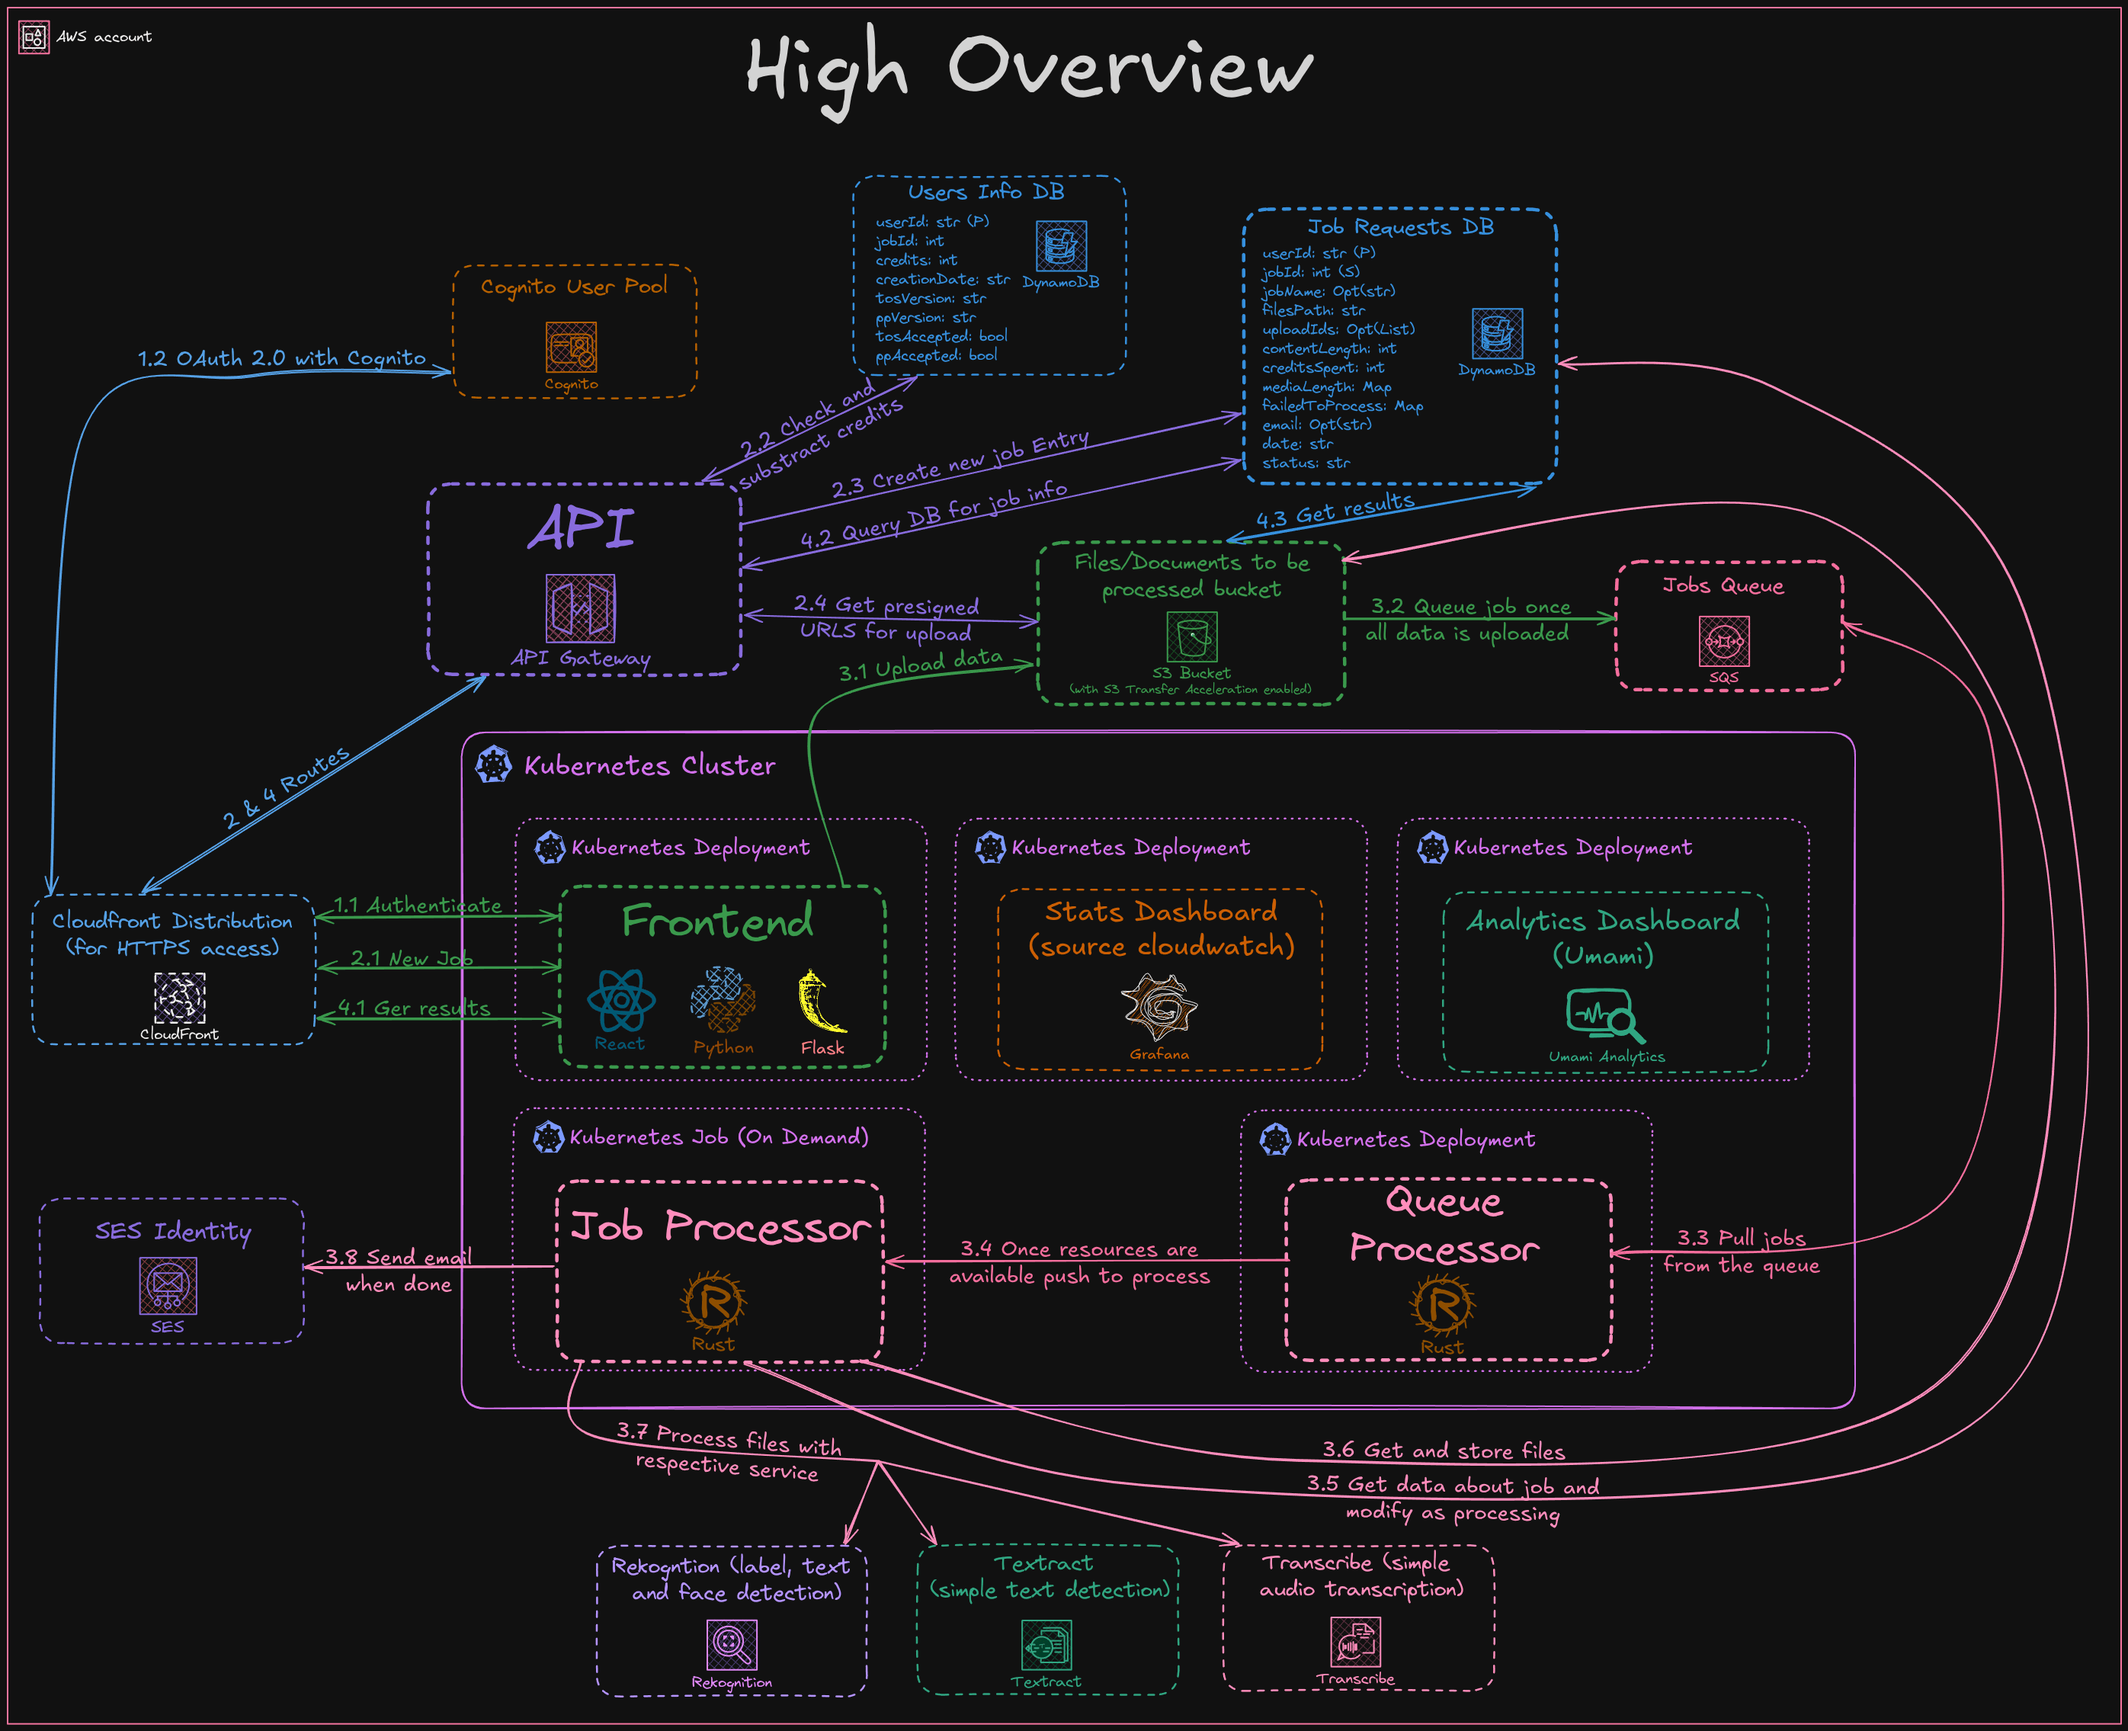
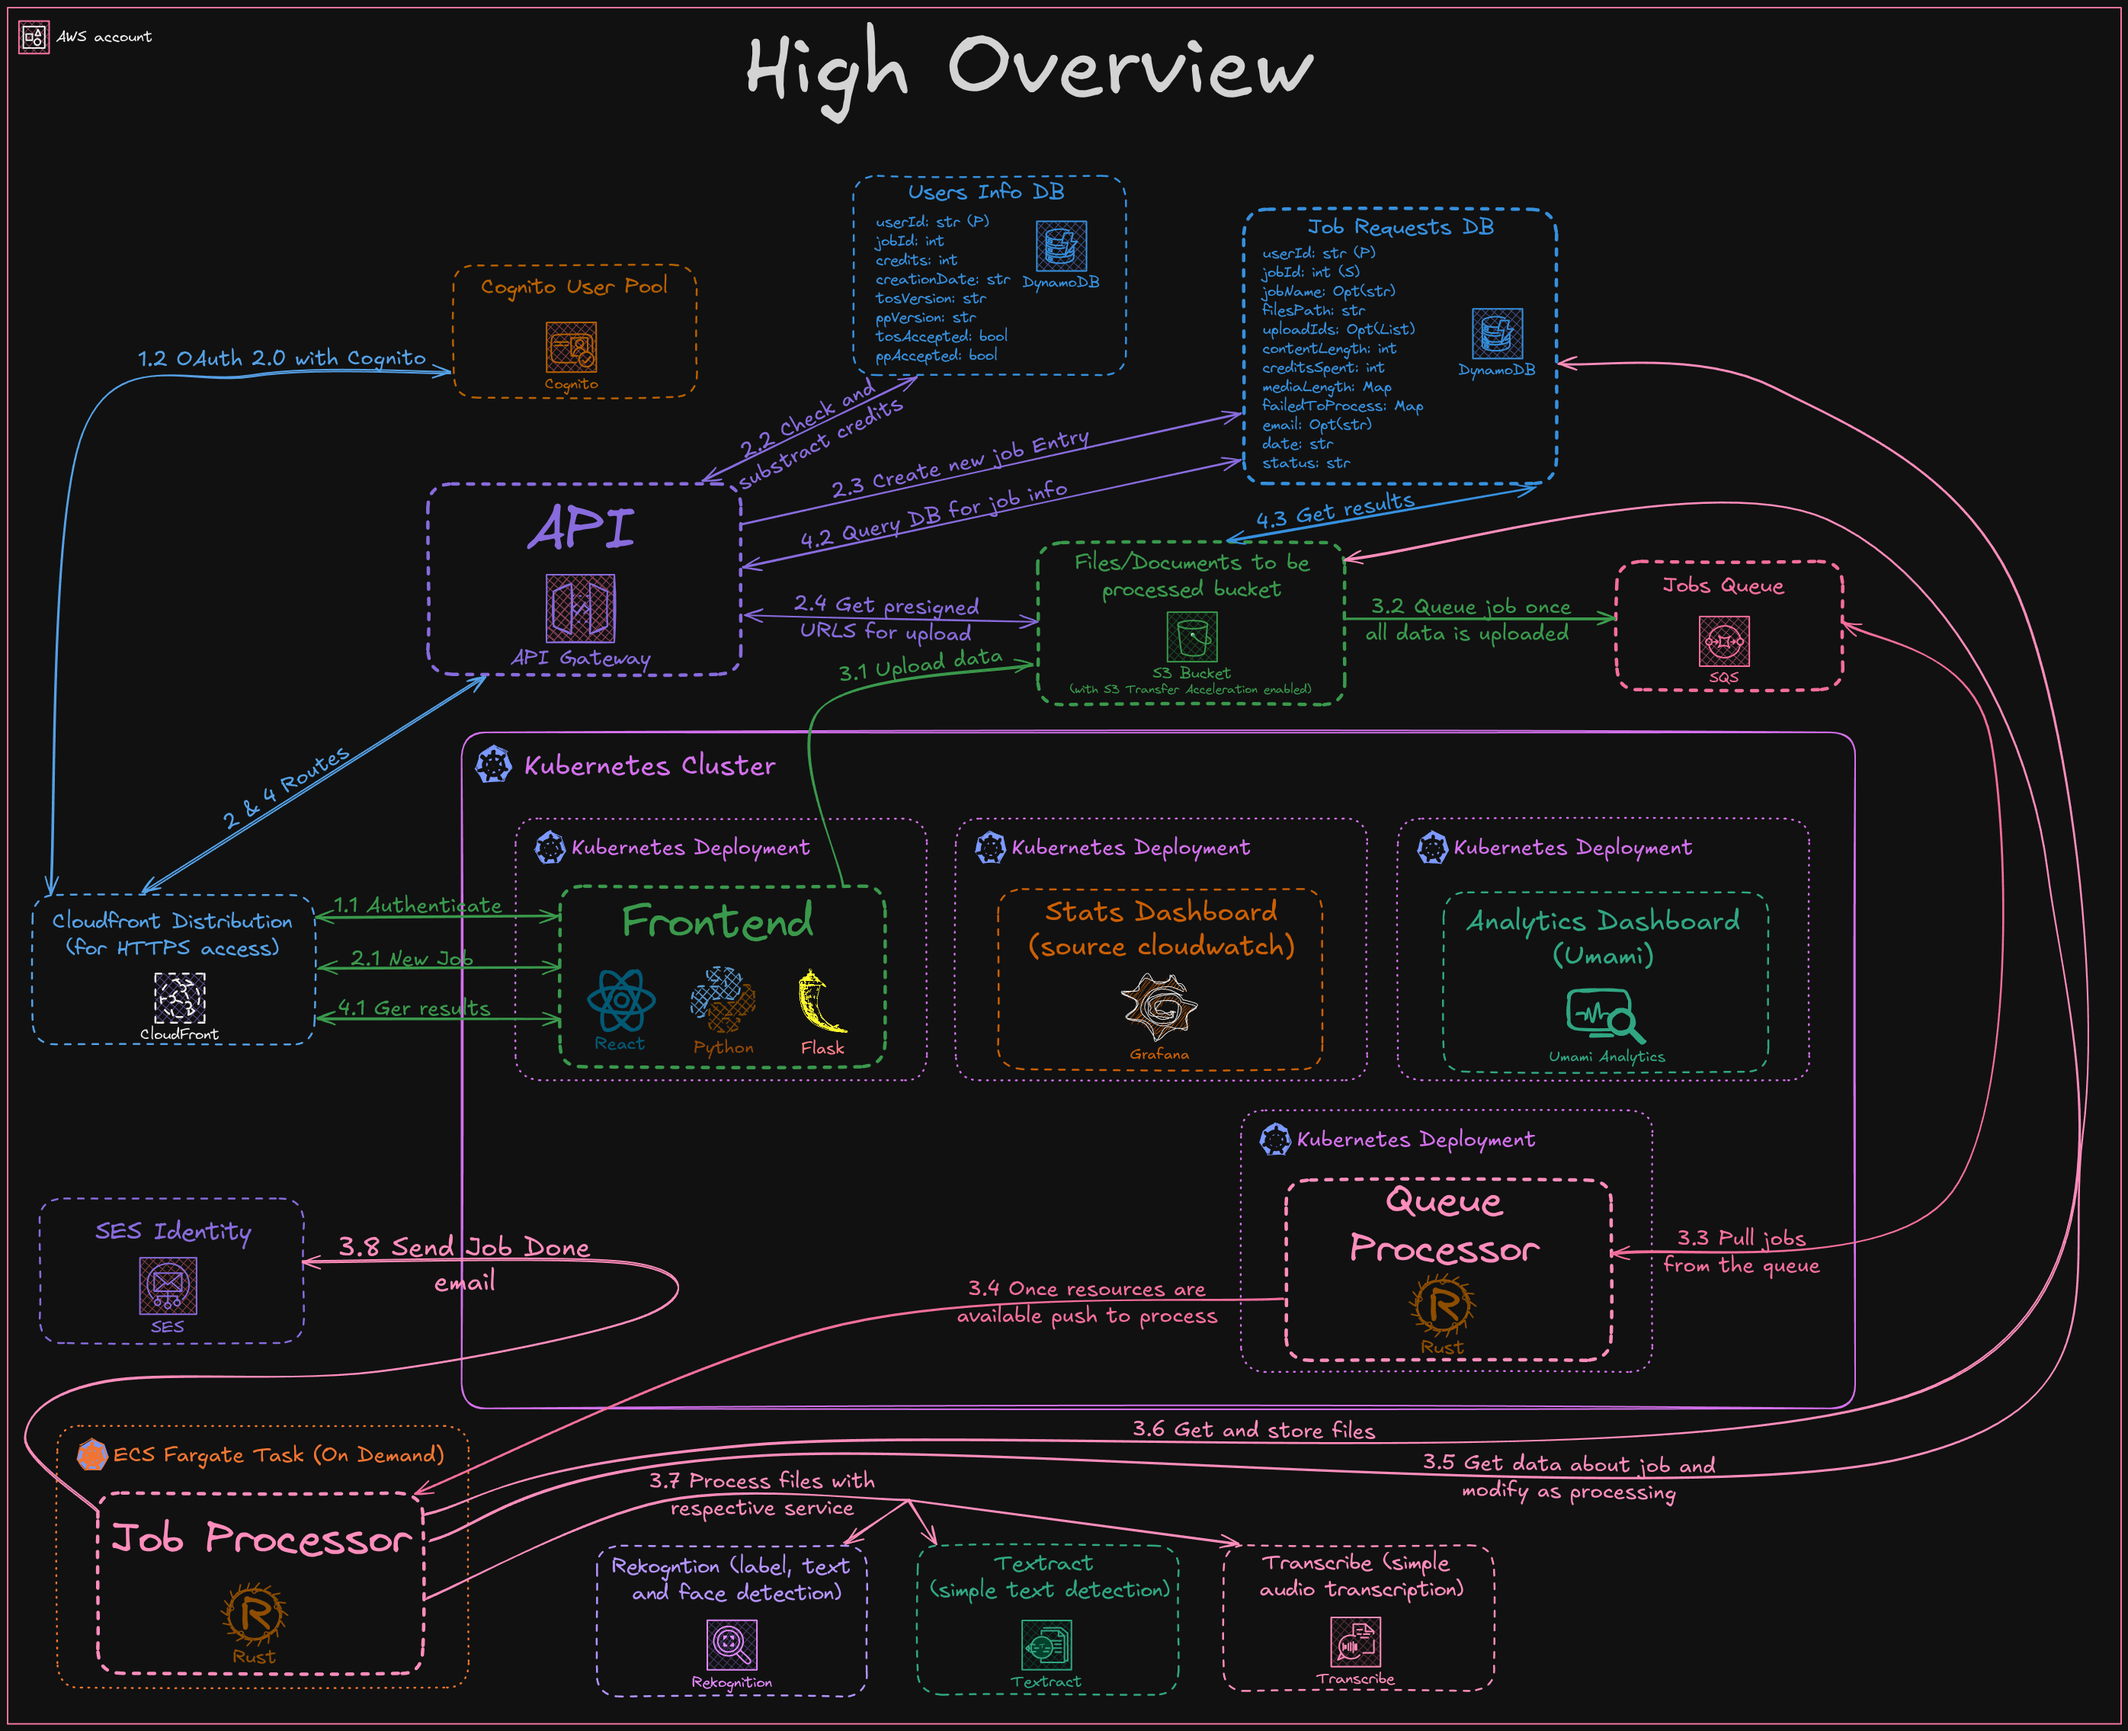
update how the jobs are processed

diff --git a/docs/Infrastructure/README.md b/docs/Infrastructure/README.md
@@ -43,6 +43,10 @@ The reasons for not using a REST API are cost-related, as running the bare bones
 
 All of the API Routes resolve to AWS Lambda or ARM, as it is incredibly cheap to run and is more than enough for any of the APIs.
 
+#### Job Processor
+
+The Job Processor is a Rust application that is ran on ECS Fargate as a task whenever a new job is added to the queue. This allows for infinite scalability, as it can run as many tasks as needed to process the jobs in parallel.
+
 #### Other
 
 - S3 for storing files and accessing them fast.
@@ -57,6 +61,6 @@ All of the API Routes resolve to AWS Lambda or ARM, as it is incredibly cheap to
 
 ## Kubernetes
 
-For hosting the Frontend, Job Processor, Queue Processor, Stats Dashboard, and Analytics Dashboard, I have decided to go with a Kubernetes cluster because I am very comfortable with Kubernetes (I even have the CKAD), it's cloud agnostic if I ever decide to switch things. It allows me to manage them better.
+For hosting the Frontend, Queue Processor, Stats Dashboard, and Analytics Dashboard, I have decided to go with a Kubernetes cluster because I am very comfortable with Kubernetes (I even have the CKAD), it's cloud agnostic if I ever decide to switch things. It allows me to manage them better.
 
 See [K3S.md](./K3S.md) for more information about the K3S cluster.

diff --git a/docs/OVERVIEW.md b/docs/OVERVIEW.md
@@ -55,7 +55,8 @@ is as follows:
 ## Infrastructure
 
 - The API, CDN, DNS Router, and other components that software interacts with are from AWS (Amazon Web Services). It includes AWS Lambda functions called by the API, too. A non-exhaustive list of the most used services consists of the following: Route53, CloudFront, API Gateway, AWS Lambda, S3, SQS, AWS Cognito, DynamoDB, SES, Event Bridge, CloudWatch, AWS Rekognition, AWS Textract, AWS Transcribe, IAM and ACM.
-- The actual applications (Frontend (made of React, Python, and Flask), Job Processor (Rust), Queue Processor (Rust), Stats Dashboard (Grafana), and Analytics Dashboard (Umami)) are deployed in a Kubernetes cluster behind an NGINX reverse proxy as deployments and jobs.
+- The actual applications (Frontend (made of React, Python, and Flask), Queue Processor (Rust), Stats Dashboard (Grafana), and Analytics Dashboard (Umami)) are deployed in a Kubernetes cluster behind an NGINX reverse proxy as deployments and jobs.
+- The Job Processor (Rust) is created by the queue processor on ecs fargate as a task whenever a new job is added to the queue thus making the job processing infinitely scalable.
 
 ## Additional Resources
 

diff --git a/docs/Application/SERVER.md b/docs/Application/SERVER.md
@@ -12,7 +12,7 @@ This section comprises three components:
 
 ## MAIN Steps
 
-1. The Queue Processor pools for 30 seconds at a time the SQS Queue for any new jobs to be processed. Once it finds a job, it creates a new Kubernetes Job which spins up the Job Processor.
+1. The Queue Processor pools for 30 seconds at a time the SQS Queue for any new jobs to be processed. Once it finds a job, it creates a new ECS Fargate task which spins up the Job Processor.
 1. Next, it retrieves the job item from the Job Requests database, updates the status to "processing," and sends an email to the user if they have opted in, indicating that processing has begun. It then retrieves a list of all job files from S3.
 1. It spins up a background task that updates the processing status every 10 seconds, providing the user with frontend updates.
 1. It takes all files and, in parallel (e.g, five at once), runs the FILE PROCESSOR on them, storing which files have succeeded the processing and which have failed.
